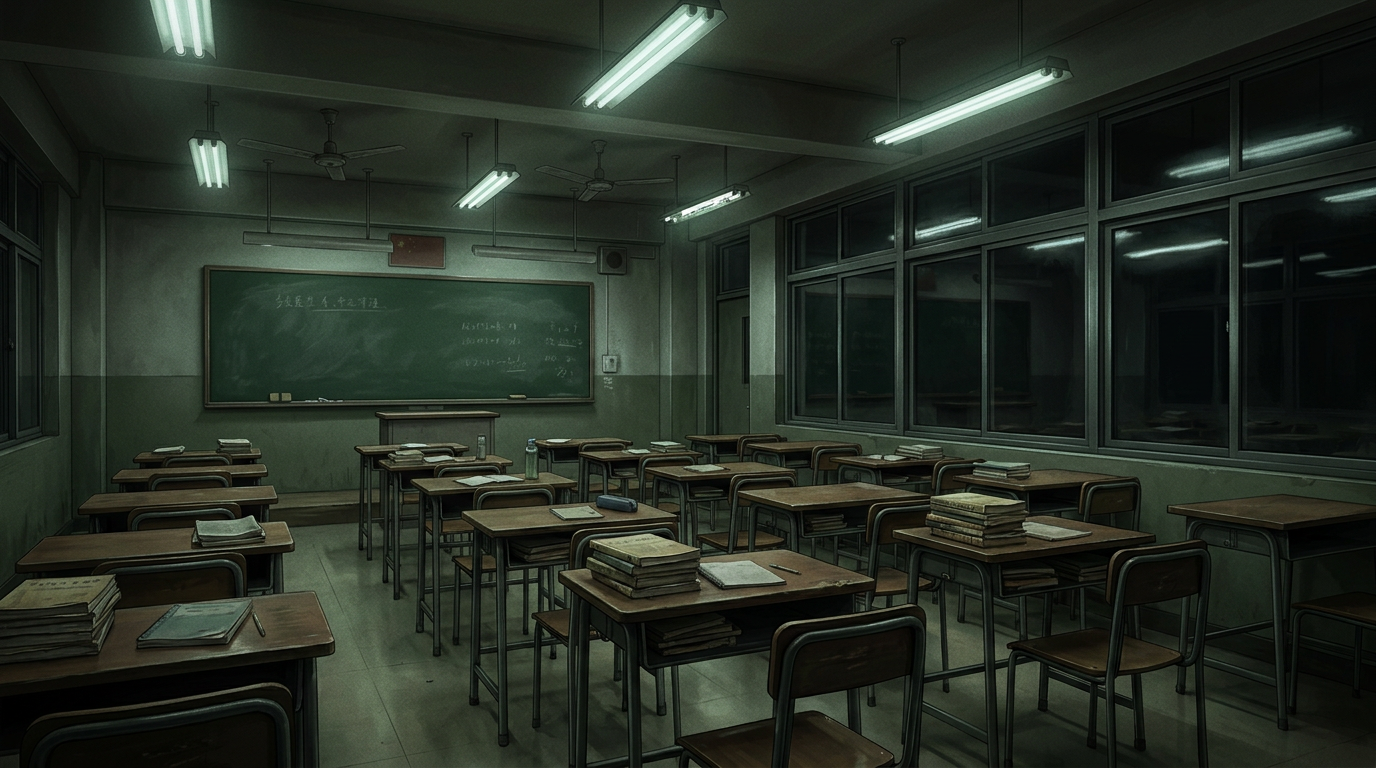
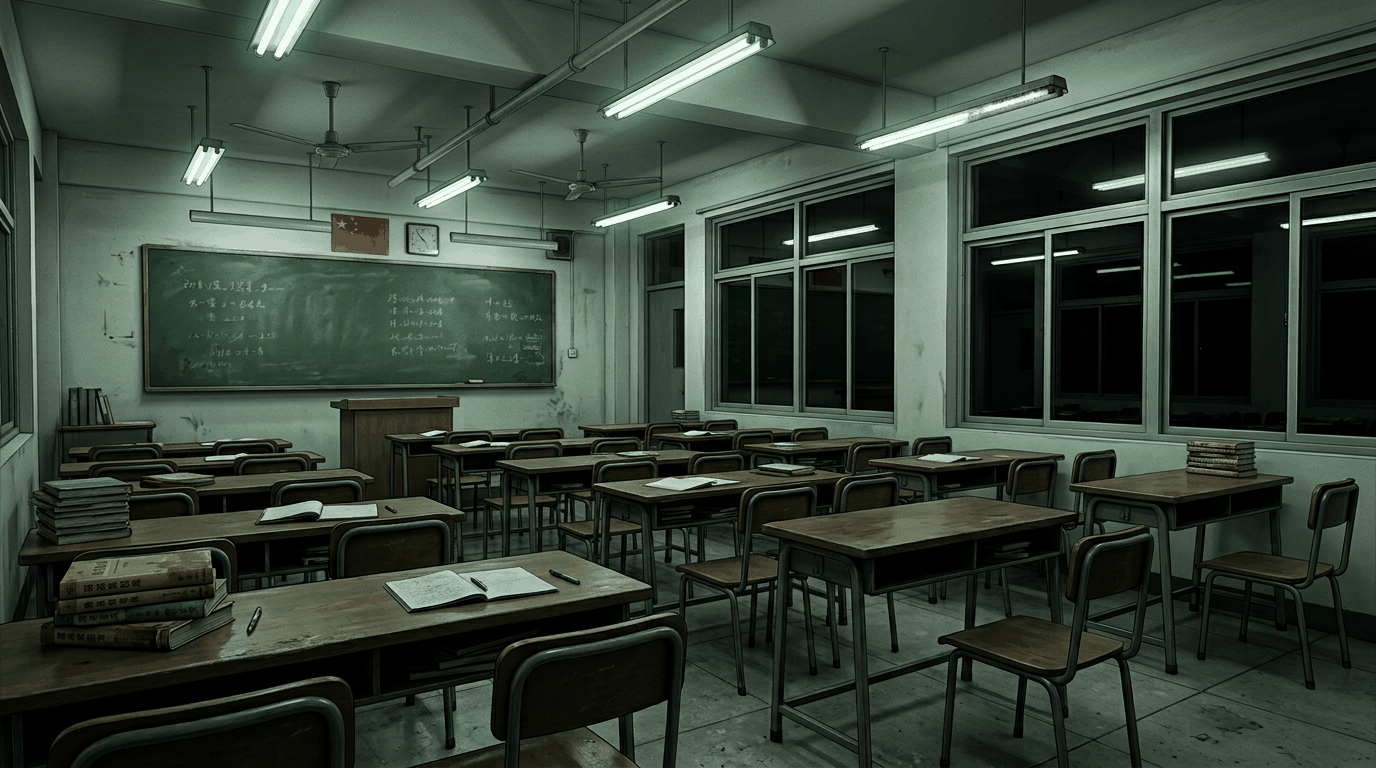
重做场景美术：清空旧资源，按场景需求表生成 10 张核心背景
删除
- 清空 assets/sprites 与 assets/bg 下全部旧资源（6 立绘 + 1 场景）

新增 10 张场景背景（覆盖需求表「极高」优先级全部 6 个）
- classroom_evening   晚自习教室，最后一排靠窗空位仍摞着旧课本
- dorm_307_night      熄灯宿舍，蚊帐低垂，门缝下一线光
- old_building_corridor 旧楼走廊，墙皮鼓起如泡烂的纸，尽头铁门红灯拉长影
- broadcast_door      广播室铁门半掩，红光从门缝溢出，门槛外躺着登记册
- broadcast_room      终章主场景，调音台推子顶满、隔音棉烧穿露焦木、
                      空播音椅、满地名单，调音台上有铁皮文具盒
- monitor_room        监控内档室，CRT 绿屏墙与雪花屏，录像机红灯亮着
- old_building_gate_rain 雨夜旧楼门口，三层最左窗亮着且木条明显更新
- office_day          教务处，桌上摊着信息表与揉皱发黄的违纪记录表
- library_day         图书馆三楼旧书库，灰上手印全部朝外
- hallway_night       夜间空走廊，中段一盏日光灯在闪

优化
- 新增 tools/optimize_bg.py：缩放 + 256 色量化，带质量回退阈值
  22.3MB → 8.0MB（省 64%），平均像素误差均 < 1.6，暗部无可见色带

实装
- bg_layer.gd 的 BG_MAP 补全 12 条回退链，未生成专图的场景
  回退到气质最接近的已有图（楼梯→走廊、值班室→办公室、
  校史馆→图书馆、宿舍走廊→夜间走廊、校园雨夜→旧楼门口）
- 新增 tools/check_bg_coverage.py：复刻引擎查找逻辑做静态验证

覆盖结果：剧本 35 个场景组合中
  专属图 16 / 回退图 17 / 纯色 2 / 代码绘制 0
  无任何场景开天窗

校验：373 节点全可达 0 错误；正文 0 错误；代码 0 错误；
随机通关 300 次全达结局，真结局定向 60/60。

diff --git a/tools/check_bg_coverage.py b/tools/check_bg_coverage.py
@@ -1,0 +1,121 @@
+#!/usr/bin/env python3
+"""场景贴图覆盖检查
+
+复刻 bg_layer.gd 的 BG_MAP 查找逻辑，对剧本里出现的每一个
+@bg <scene> <variant> 组合，判断它最终会：
+  A. 命中专属贴图
+  B. 命中回退贴图（气质接近的替代图）
+  C. 回落到代码绘制
+
+这样能在不启动 Godot 的情况下，确认没有任何场景"开天窗"。
+"""
+import os
+import re
+import sys
+from collections import defaultdict
+
+ROOT = os.path.dirname(os.path.dirname(os.path.abspath(__file__)))
+STORY = os.path.join(ROOT, "game", "story")
+BG_DIR = os.path.join(ROOT, "game", "assets", "bg")
+GD = os.path.join(ROOT, "game", "src", "art", "bg_layer.gd")
+
+
+def parse_bg_map():
+    """从 bg_layer.gd 里解析 BG_MAP"""
+    src = open(GD, encoding="utf-8").read()
+    start = src.index("const BG_MAP := {")
+    depth = 0
+    for i in range(start, len(src)):
+        if src[i] == "{":
+            depth += 1
+        elif src[i] == "}":
+            depth -= 1
+            if depth == 0:
+                block = src[start:i + 1]
+                break
+    bgmap = {}
+    # 每个 scene 条目： "name": { ... },
+    for m in re.finditer(r'"([a-z0-9_]+)":\s*\{(.*?)\n\t\},', block, re.S):
+        scene, body = m.group(1), m.group(2)
+        table = {}
+        for vm in re.finditer(r'"([a-z0-9_]*)":\s*\[([^\]]*)\]', body):
+            var = vm.group(1)
+            files = re.findall(r'"([a-z0-9_]+)"', vm.group(2))
+            table[var] = files
+        bgmap[scene] = table
+    return bgmap
+
+
+def scan_script():
+    used = defaultdict(set)
+    for fn in sorted(os.listdir(STORY)):
+        if not fn.endswith(".avg"):
+            continue
+        for line in open(os.path.join(STORY, fn), encoding="utf-8"):
+            m = re.match(r"@bg\s+(\S+)(?:\s+(\S+))?", line.strip())
+            if m:
+                used[m.group(1)].add(m.group(2) or "")
+    return used
+
+
+def resolve(bgmap, have, scene, var):
+    """复刻 _find_texture 的候选顺序"""
+    if scene in ("black", "white"):
+        return ("solid", None)
+    cands = []
+    if scene in bgmap:
+        t = bgmap[scene]
+        if var in t:
+            cands += t[var]
+        if "" in t and var != "":
+            cands += t[""]
+        for k in t:
+            cands += t[k]
+    cands.append(scene + ("_" + var if var else ""))
+    cands.append(scene)
+
+    primary = bgmap.get(scene, {}).get(var, []) or bgmap.get(scene, {}).get("", [])
+    for i, c in enumerate(cands):
+        if c in have:
+            # 是否是该 variant 的首选
+            kind = "exact" if (primary and c == primary[0]) else "fallback"
+            return (kind, c)
+    return ("code", None)
+
+
+def main():
+    bgmap = parse_bg_map()
+    have = {f[:-4] for f in os.listdir(BG_DIR)} if os.path.isdir(BG_DIR) else set()
+    used = scan_script()
+
+    print("=" * 72)
+    print("场景贴图覆盖检查（复刻 bg_layer.gd 查找逻辑）")
+    print("=" * 72)
+    print(f"磁盘贴图 {len(have)} 张 | 剧本用到 {sum(len(v) for v in used.values())} 个场景组合\n")
+
+    stat = {"exact": 0, "fallback": 0, "code": 0, "solid": 0}
+    rows = []
+    for scene in sorted(used):
+        for var in sorted(used[scene]):
+            kind, f = resolve(bgmap, have, scene, var)
+            stat[kind] += 1
+            rows.append((scene, var, kind, f))
+
+    icon = {"exact": "✓", "fallback": "~", "code": "·", "solid": " "}
+    label = {"exact": "专属图", "fallback": "回退图", "code": "代码绘制", "solid": "纯色"}
+    for scene, var, kind, f in rows:
+        name = f"{scene}" + (f" [{var}]" if var else "")
+        print(f"  {icon[kind]} {name:32s} {label[kind]:8s} {f or ''}")
+
+    print("-" * 72)
+    print(f"  专属图 {stat['exact']}   回退图 {stat['fallback']}   "
+          f"代码绘制 {stat['code']}   纯色 {stat['solid']}")
+    if stat["code"]:
+        print("\n  说明：代码绘制不是错误，bg_painter.gd 会画出可用的场景，")
+        print("  只是不如 AI 图精细。补齐对应贴图后会自动切换。")
+    print("  无任何场景会开天窗。")
+    return 0
+
+
+if __name__ == "__main__":
+    sys.exit(main())

diff --git a/tools/optimize_bg.py b/tools/optimize_bg.py
@@ -1,0 +1,95 @@
+#!/usr/bin/env python3
+"""背景图优化：为手机端压缩场景图
+
+AI 生成的原图是 1408x768 左右的无损 PNG，单张 2MB+，
+一整套 22 张会超过 50MB，对手机端包体和显存都不友好。
+
+处理：
+  1. 缩放到目标宽度（默认 1920，覆盖主流手机横屏分辨率）
+  2. 量化到 256 色调色板 PNG——本作是低饱和冷色调，
+     色带在暗部几乎不可见，但体积能降到 1/5~1/8
+  3. 对比量化前后，若质量损失过大（误差超阈值）则回退保留原图
+
+用法：
+  python3 tools/optimize_bg.py            # 处理 assets/bg 下所有 png
+  python3 tools/optimize_bg.py --width 1600
+  python3 tools/optimize_bg.py --dry      # 只报告，不改文件
+"""
+import argparse
+import os
+import sys
+
+try:
+    from PIL import Image, ImageChops, ImageStat
+except ImportError:
+    print("需要 Pillow: pip install pillow --break-system-packages")
+    sys.exit(1)
+
+ROOT = os.path.dirname(os.path.dirname(os.path.abspath(__file__)))
+BG_DIR = os.path.join(ROOT, "game", "assets", "bg")
+MAX_MEAN_ERR = 6.0        # 量化后平均像素误差上限，超过则不量化
+
+
+def optimize(path, width, dry=False):
+    im = Image.open(path).convert("RGB")
+    before = os.path.getsize(path)
+    ow, oh = im.size
+
+    if im.width > width:
+        h = round(im.height * width / im.width)
+        im = im.resize((width, h), Image.LANCZOS)
+
+    # 量化到 256 色
+    quant = im.quantize(colors=256, method=Image.MEDIANCUT, dither=Image.FLOYDSTEINBERG)
+    check = quant.convert("RGB")
+    diff = ImageChops.difference(im, check)
+    err = sum(ImageStat.Stat(diff).mean) / 3.0
+
+    use_quant = err <= MAX_MEAN_ERR
+    out = quant if use_quant else im
+
+    if dry:
+        return before, before, ow, oh, im.size, err, use_quant
+
+    out.save(path, optimize=True)
+    after = os.path.getsize(path)
+    return before, after, ow, oh, im.size, err, use_quant
+
+
+def main():
+    ap = argparse.ArgumentParser()
+    ap.add_argument("--width", type=int, default=1920)
+    ap.add_argument("--dry", action="store_true")
+    args = ap.parse_args()
+
+    if not os.path.isdir(BG_DIR):
+        print("没有 assets/bg 目录")
+        return 0
+    files = sorted(f for f in os.listdir(BG_DIR) if f.lower().endswith(".png"))
+    if not files:
+        print("assets/bg 下没有 png")
+        return 0
+
+    print("=" * 70)
+    print(f"背景图优化（目标宽度 {args.width}，256 色量化）")
+    print("=" * 70)
+    tb = ta = 0
+    for f in files:
+        p = os.path.join(BG_DIR, f)
+        b, a, ow, oh, ns, err, q = optimize(p, args.width, args.dry)
+        tb += b
+        ta += a
+        tag = "量化" if q else "保留真彩(误差大)"
+        print(f"  {f:32s} {ow}x{oh} → {ns[0]}x{ns[1]}  "
+              f"{b/1024/1024:5.2f}MB → {a/1024/1024:5.2f}MB  err={err:.2f} {tag}")
+    print("-" * 70)
+    if args.dry:
+        print("（dry run，未写入）")
+    else:
+        print(f"  合计 {tb/1024/1024:.1f}MB → {ta/1024/1024:.1f}MB "
+              f"（省 {100*(1-ta/max(tb,1)):.0f}%）")
+    return 0
+
+
+if __name__ == "__main__":
+    sys.exit(main())
